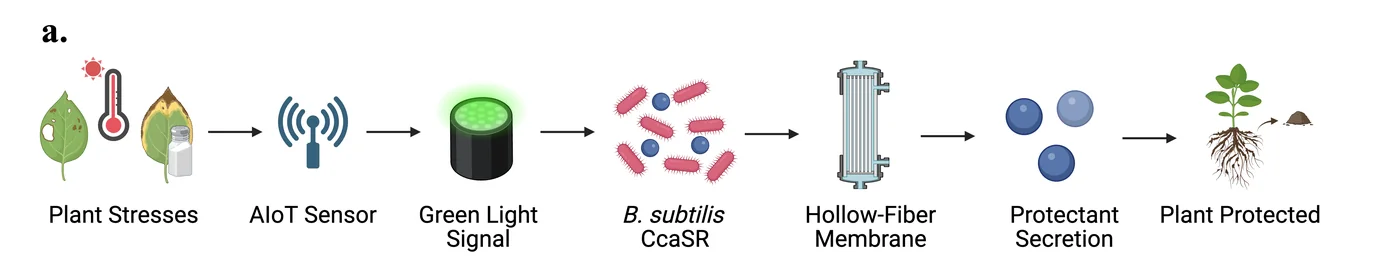
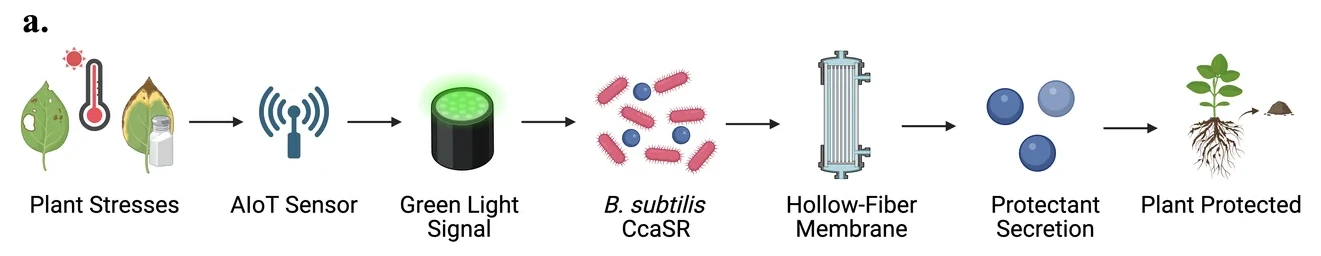
Results: four figures sit square in their frames
The flow diagram carried 39 px of white on its left and 80 px on its right,
so it read as off-centre inside the plate; it is recropped to its own drawing
with an even margin. The leaf minus air chart had the same lean, 13 px
against 33, and its viewBox is now the drawing plus ten pixels all round -
a hand edit, since build_software_figures.py draws it on a fixed 880 x 470
canvas and --only-r6 would put the white back. It is the same file the
Digital Twin page uses, which gains the crop too.

The light plate Western blot time course and the heat stress agar plates are
both wide strips that were being contained in a 4:3 frame, which opened a
band of white above and below each of them. Both take .fig--wide.

diff --git a/results/index.html b/results/index.html
@@ -139,7 +139,7 @@
             <figure class="fig fig--wide">
               <img src="../assets/img/results/fig-system-flow.webp"
                  alt="The ReLEAF chain drawn left to right: plant stresses, AIoT sensor, green light signal, B. subtilis CcaSR, hollow-fibre membrane, protectant secretion, plant protected."
-                 width="1400" height="277" loading="lazy" decoding="async" />
+                 width="1321" height="256" loading="lazy" decoding="async" />
               <figcaption>Overview of ReLEAF's seven-stage process, from detecting plant stress to protecting plants.</figcaption>
             </figure>
           </div>
@@ -262,7 +262,7 @@
             <figure class="fig fig--wide">
               <img src="../assets/img/software/fig-r6-leafair.svg"
                  alt="Leaf minus air temperature for nine bench runs at three sites, with a side panel giving the mean of each run against its site mean."
-                 width="640" height="470" loading="lazy" decoding="async" />
+                 width="853" height="420" loading="lazy" decoding="async" />
               <figcaption>Difference between leaf and air temperature during nine five-minute tests conducted at three locations on 10&nbsp;October 2026, with both sensors exposed to air and no leaf present.</figcaption>
             </figure>
           </div>
@@ -340,7 +340,7 @@
 
         <div class="chartbox">
           <div class="charts charts--1">
-            <figure class="fig">
+            <figure class="fig fig--wide">
               <img src="../assets/img/results/lpa-wb-timecourse.webp"
                  srcset="../assets/img/results/lpa-wb-timecourse-w800.webp 800w, ../assets/img/results/lpa-wb-timecourse.webp 1461w"
                  sizes="(max-width: 1024px) 90vw, 700px"
@@ -949,7 +949,7 @@
 
         <div class="chartbox">
           <div class="charts charts--1">
-            <figure class="fig">
+            <figure class="fig fig--wide">
               <img src="../assets/img/results/pf-chpep-heat-plates.webp"
                  srcset="../assets/img/results/pf-chpep-heat-plates-w800.webp 800w, ../assets/img/results/pf-chpep-heat-plates.webp 1800w"
                  sizes="(max-width: 1024px) 90vw, 760px"
